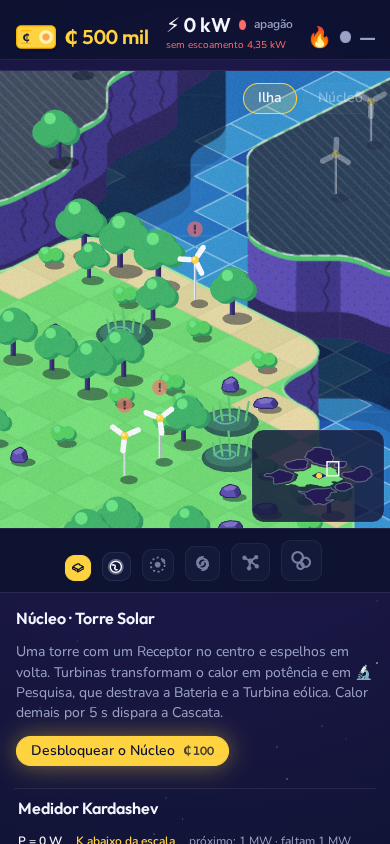
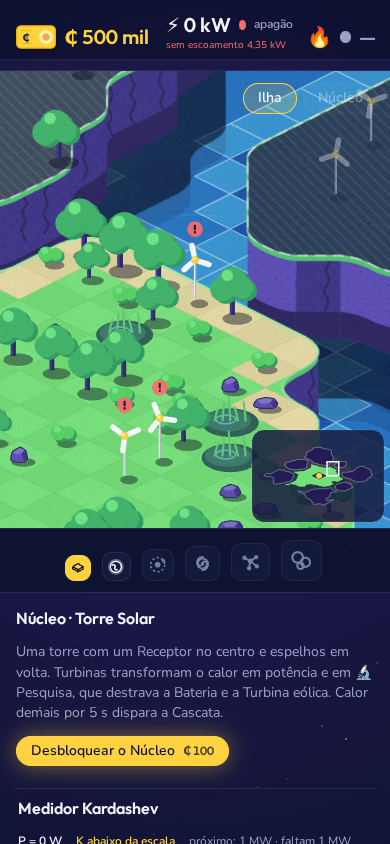
cena: cabo submarino visível — pontas no litoral, caixas de conexão e espessura mínima na tela

diff --git a/src/scene/tabuleiro/mar.ts b/src/scene/tabuleiro/mar.ts
@@ -149,6 +149,9 @@ export function desenharMar(ctx: CanvasRenderingContext2D, arq: Arquipelago, cam
 export interface CaboCena {
   /** Casas de mar atravessadas. */
   casas: readonly number[];
+  /** Litoral de partida (na ilha) e de chegada (na rede principal). */
+  de: number;
+  para: number;
   ligado: boolean;
 }
 
@@ -161,19 +164,30 @@ export function desenharCabos(ctx: CanvasRenderingContext2D, arq: Arquipelago, c
   ctx.lineCap = "round";
   for (const cabo of cabos) {
     if (cabo.casas.length === 0) continue;
+    // do litoral de partida ao de chegada, passando pelas casas de mar: o cabo precisa ser visto
+    const pontos = [cabo.de, ...cabo.casas, cabo.para].map((casa) => iso((casa % n) + 0.5, Math.floor(casa / n) + 0.5));
     ctx.beginPath();
-    for (let i = 0; i < cabo.casas.length; i++) {
-      const casa = cabo.casas[i];
-      const p = iso((casa % n) + 0.5, Math.floor(casa / n) + 0.5);
-      if (i === 0) ctx.moveTo(p[0], p[1]);
-      else ctx.lineTo(p[0], p[1]);
-    }
+    pontos.forEach((p, i) => (i === 0 ? ctx.moveTo(p[0], p[1]) : ctx.lineTo(p[0], p[1])));
     ctx.setLineDash([10 / z, 8 / z]);
     ctx.lineDashOffset = cabo.ligado ? -((t * 18) % 18) / z : 0;
-    ctx.strokeStyle = cabo.ligado ? alfa(P.sun, 0.9) : alfa(P.muted, 0.5);
-    ctx.lineWidth = (cabo.ligado ? 3 : 2) / z;
+    ctx.strokeStyle = cabo.ligado ? alfa(P.sun, 0.95) : alfa(P.muted, 0.55);
+    // espessura com piso em px de tela: de longe o cabo não some
+    ctx.lineWidth = Math.max(cabo.ligado ? 3 : 2, 2.5 / z);
     ctx.stroke();
     ctx.setLineDash([]);
+    // caixas de conexão nas duas pontas
+    const cor = cabo.ligado ? P.sun : P.muted;
+    for (const p of [pontos[0], pontos[pontos.length - 1]]) {
+      const r = Math.max(4, 5 / z);
+      ctx.fillStyle = cor;
+      ctx.beginPath();
+      ctx.ellipse(p[0], p[1] - r * 0.6, r, r * 0.6, 0, 0, TAU);
+      ctx.fill();
+      ctx.fillStyle = alfa(P.navy, 0.6);
+      ctx.beginPath();
+      ctx.ellipse(p[0], p[1] - r * 0.6, r * 0.45, r * 0.28, 0, 0, TAU);
+      ctx.fill();
+    }
   }
   ctx.restore();
 }

diff --git a/src/scene/TabuleiroScene.ts b/src/scene/TabuleiroScene.ts
@@ -203,7 +203,7 @@ export class TabuleiroScene extends Phaser.Scene {
     for (const def of ILHAS) {
       if (def.id === "principal" || !ilhaAberta(state.mundo, def.id)) continue;
       const rota = rotaDoCabo(def.id, arq);
-      if (rota) cabos.push({ casas: rota.casas, ligado: temCabo(state.mundo, def.id) });
+      if (rota) cabos.push({ casas: rota.casas, de: rota.de, para: rota.para, ligado: temCabo(state.mundo, def.id) });
     }
 
     // --- alcance: a subestação sob o ponteiro, ou todas quando a ferramenta é a subestação
@@ -338,12 +338,12 @@ export class TabuleiroScene extends Phaser.Scene {
       const tr = tremorCena(this.cena, t);
       const c: Camera = { zoom: cam.zoom, tx: cam.tx + tr[0], ty: cam.ty + tr[1], w, h };
       ctx.setTransform(dpr * c.zoom, 0, 0, dpr * c.zoom, dpr * c.tx, dpr * c.ty);
-      // mar e cabos ficam sob as ilhas
       marcar("mar", () => desenharMar(ctx, this.arq, c, t));
-      marcar("cabos", () => desenharCabos(ctx, this.arq, this.cena!.cabos, c, t));
       marcar("terreno", () =>
         desenharTerreno(ctx, this.arq, c, t, { desbloqueadas: new Set(state.mundo.ilhasAbertas), ladoGrade: state.nucleo?.lado ?? NUCLEO.ladoInicial, chaoDpr, chaoEscalavel }),
       );
+      // o cabo vai por cima do chão: as pontas encostam no litoral e precisam ser vistas
+      marcar("cabos", () => desenharCabos(ctx, this.arq, this.cena!.cabos, c, t));
       marcar("cena", () => desenharCena(ctx, this.cena!, c, t));
       ctx.setTransform(dpr, 0, 0, dpr, 0, 0);
       desenharCallouts(ctx, this.cena, c, this.reservas(w, h));
